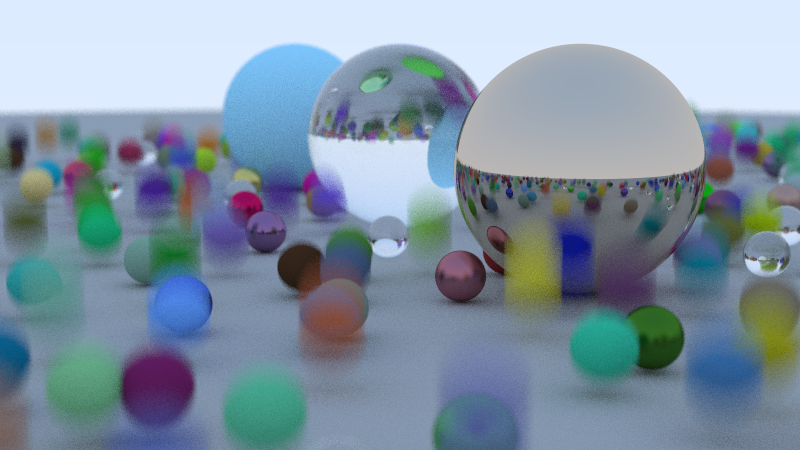
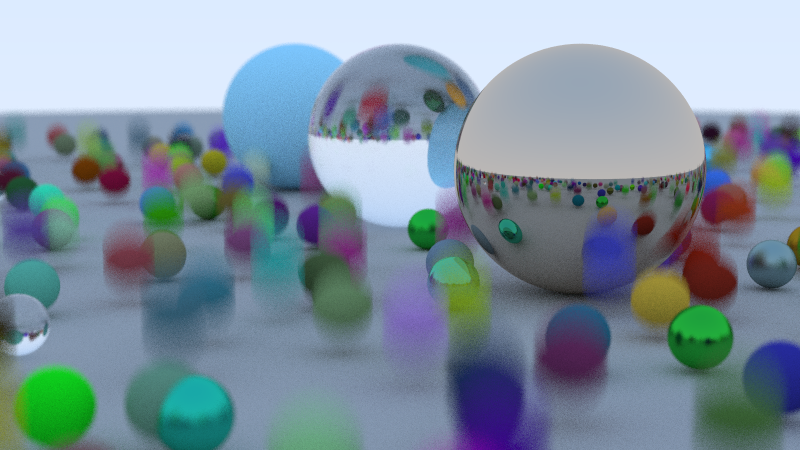
BVH, Arc version

diff --git a/src/bvh.rs b/src/bvh.rs
@@ -1,4 +1,4 @@
-use std::{ops::Range, mem::swap};
+use std::{ops::Range, sync::Arc};
 
 use rand::{thread_rng, Rng};
 
@@ -11,35 +11,35 @@ use crate::{
 /// Bounding Volume Hierarchies
 /// 层次包围盒
 pub struct BvhNode {
-    left: Box<dyn Hittable>,
-    right: Option<Box<dyn Hittable>>,
+    left: Arc<dyn Hittable>,
+    right: Arc<dyn Hittable>,
     bounding_box: AABB,
 }
 
 impl BvhNode {
-    pub fn from_hittable_list(list: HittableList, t_range: &Range<f64>) -> Self{
-        Self::new(list.into(),t_range)
+    pub fn from_hittable_list(mut list: HittableList, t_range: &Range<f64>) -> Self{
+        Self::new(&mut list.get_objects_mut(), t_range)
     }
-    pub fn new(mut src_object: Vec<Box<dyn Hittable>>, t_range: &Range<f64>) -> Self {
+    pub fn new(src_object: &mut [Arc<dyn Hittable>], t_range: &Range<f64>) -> Self {
         let comparator = thread_rng().gen_range(0usize..3);
-        let mut left: Option<Box<dyn Hittable>>;
-        let mut right: Option<Box<dyn Hittable>>;
+        let left: Arc<dyn Hittable>;
+        let right: Arc<dyn Hittable>;
         match src_object.len() {
             1 => {
-                left = src_object.pop();
-                right = None;
+                left = Arc::clone(src_object.first().unwrap());
+                right = Arc::clone(src_object.first().unwrap());
             }
             2 => {
-                let cmp = box_compare(
+                if box_compare(
                     src_object.first().unwrap().as_ref(),
                     src_object.last().unwrap().as_ref(),
-                    comparator);
-                
-                right = src_object.pop();
-                left = src_object.pop();
-                
-                if !cmp{
-                    swap(&mut left, &mut right);
+                    comparator,
+                ) {
+                    left = Arc::clone(src_object.first().unwrap());
+                    right = Arc::clone(src_object.last().unwrap());
+                } else {
+                    left = Arc::clone(src_object.last().unwrap());
+                    right = Arc::clone(src_object.first().unwrap());
                 }
             }
             _ => {
@@ -57,37 +57,21 @@ impl BvhNode {
                         .expect("浮点数比较出错")
                 });
                 let mid = src_object.len() / 2;
-
-                let mut tmp_vec = Vec::new();
-                for _ in 0..mid {
-                    tmp_vec.push(src_object.pop().unwrap());
-                }
-
-                left = Some(Box::new(BvhNode::new(src_object, t_range)));
-                right = Some(Box::new(BvhNode::new(tmp_vec, t_range)));
+                left = Arc::new(BvhNode::new(&mut src_object[..mid], t_range));
+                right = Arc::new(BvhNode::new(&mut src_object[mid..], t_range));
             }
         }
 
-        if let Some(r) = right{
-            if let (Some(box_l), Some(box_r)) =
-                (left.as_ref().unwrap().bounding_box(t_range), r.bounding_box(t_range))
-            {
-                Self {
-                    left: left.unwrap(),
-                    right: Some(r),
-                    bounding_box: surrounding_box(&box_l, &box_r),
-                }
-            } else {
-                panic!("No bounding box in bvh_node constructor.")
-            }
-        }
-        else {
-            let bbox = left.as_ref().unwrap().bounding_box(t_range).unwrap();
+        if let (Some(box_l), Some(box_r)) =
+            (left.bounding_box(t_range), right.bounding_box(t_range))
+        {
             Self {
-                left: left.unwrap(),
-                right: None,
-                bounding_box: bbox,
+                left,
+                right,
+                bounding_box: surrounding_box(&box_l, &box_r),
             }
+        } else {
+            panic!("No bounding box in bvh_node constructor.")
         }
     }
 }
@@ -104,31 +88,20 @@ impl Hittable for BvhNode {
             let hit_left = self.left.hit(ray_in, t_range);
             if let Some(left_rec) = hit_left {
                 // 会与左边相交：判断与右边能否在更近位置相交而遮挡左边
-                if let Some(right) = &self.right{
-                    let mut shrunken_t_range = t_range.clone();
-                    shrunken_t_range.end = left_rec.t;
-                    
-                    let hit_right = right.hit(ray_in, &shrunken_t_range);
-                    if let Some(right_rec) = hit_right {
-                        // 遮挡
-                        Some(right_rec)
-                    } else {
-                        // 不遮挡
-                        Some(left_rec)
-                    }
-                }
-                else {
+                let mut shrunken_t_range = t_range.clone();
+                shrunken_t_range.end = left_rec.t;
+
+                let hit_right = self.right.hit(ray_in, &shrunken_t_range);
+                if let Some(right_rec) = hit_right {
+                    // 遮挡
+                    Some(right_rec)
+                } else {
+                    // 不遮挡
                     Some(left_rec)
                 }
-                
             } else {
                 // 不与左边相交，只考虑右边即可
-                if let Some(right) = &self.right{
-                    right.hit(ray_in, t_range)
-                }
-                else {
-                    None
-                }
+                self.right.hit(ray_in, t_range)
             }
         }
     }

diff --git a/tests/test.rs b/tests/test.rs
@@ -16,6 +16,8 @@ use std::time::SystemTime;
 
 #[cfg(test)]
 mod tests {
+    use std::sync::Arc;
+
     use super::*;
 
     #[test]
@@ -98,7 +100,7 @@ mod tests {
     fn random_scene() -> HittableList {
         let mut world = HittableList::new();
         let ground_material = Box::new(Lambertian::new(Color::new(0.5, 0.5, 0.5)));
-        world.add(Box::new(Sphere::new(
+        world.add(Arc::new(Sphere::new(
             Point3::new(0., -1000., 0.),
             1000.,
             ground_material,
@@ -142,7 +144,7 @@ mod tests {
 
                             let center_2 =
                                 center + Vec3::new(0., thread_rng().gen_range(0.0..0.5), 0.);
-                            world.add(Box::new(MovingSphere::new(
+                            world.add(Arc::new(MovingSphere::new(
                                 (center, center_2),
                                 0.2,
                                 sphere_material,
@@ -156,13 +158,13 @@ mod tests {
                             let fuzz = thread_rng().gen_range(0.0..0.5);
 
                             sphere_material = Box::new(Metal::new(albedo, fuzz));
-                            world.add(Box::new(Sphere::new(center, 0.2, sphere_material)));
+                            world.add(Arc::new(Sphere::new(center, 0.2, sphere_material)));
                         }
                         _ => {
                             // glass
 
                             sphere_material = Box::new(Dielectric::new(1.5));
-                            world.add(Box::new(Sphere::new(center, 0.2, sphere_material)));
+                            world.add(Arc::new(Sphere::new(center, 0.2, sphere_material)));
                         }
                     }
                 }
@@ -170,13 +172,13 @@ mod tests {
         }
 
         let material_1 = Box::new(Dielectric::new(1.5));
-        world.add(Box::new(Sphere::new(c[0], 1.0, material_1)));
+        world.add(Arc::new(Sphere::new(c[0], 1.0, material_1)));
 
         let material_2 = Box::new(Lambertian::new(Color::new(0.3984375, 0.796875, 0.99)));
-        world.add(Box::new(Sphere::new(c[1], 1.0, material_2)));
+        world.add(Arc::new(Sphere::new(c[1], 1.0, material_2)));
 
         let material_3 = Box::new(Metal::new(Color::new(0.7, 0.6, 0.5), 0.0));
-        world.add(Box::new(Sphere::new(c[2], 1.0, material_3)));
+        world.add(Arc::new(Sphere::new(c[2], 1.0, material_3)));
 
         world
     }
@@ -188,27 +190,27 @@ mod tests {
         let material_left = Box::new(Dielectric::new(1.5));
         let material_left_1 = Box::new(Dielectric::new(1.5));
         let material_right = Box::new(Metal::new(Color::new(0.8, 0.6, 0.2), 0.05));
-        world.add(Box::new(Sphere::new(
+        world.add(Arc::new(Sphere::new(
             Point3::new(0.0, -100.5, -1.0),
             100.,
             material_ground,
         )));
-        world.add(Box::new(Sphere::new(
+        world.add(Arc::new(Sphere::new(
             Point3::new(0.0, 0.0, -1.0),
             0.5,
             material_center,
         )));
-        world.add(Box::new(Sphere::new(
+        world.add(Arc::new(Sphere::new(
             Point3::new(-1.0, 0.0, -1.0),
             0.5,
             material_left_1,
         )));
-        world.add(Box::new(Sphere::new(
+        world.add(Arc::new(Sphere::new(
             Point3::new(-1.0, 0.0, -1.0),
             -0.3,
             material_left,
         )));
-        world.add(Box::new(Sphere::new(
+        world.add(Arc::new(Sphere::new(
             Point3::new(1.0, 0.0, -1.0),
             0.5,
             material_right,

diff --git a/tests/test_bvh.rs b/tests/test_bvh.rs
@@ -17,6 +17,8 @@ use std::time::SystemTime;
 
 #[cfg(test)]
 mod test_bvh {
+    use std::sync::Arc;
+
     use super::*;
 
     #[test]
@@ -99,7 +101,7 @@ mod test_bvh {
     fn bvh_random_scene() -> BvhNode {
         let mut world = HittableList::new();
         let ground_material = Box::new(Lambertian::new(Color::new(0.5, 0.5, 0.5)));
-        world.add(Box::new(Sphere::new(
+        world.add(Arc::new(Sphere::new(
             Point3::new(0., -1000., 0.),
             1000.,
             ground_material,
@@ -143,7 +145,7 @@ mod test_bvh {
 
                             let center_2 =
                                 center + Vec3::new(0., thread_rng().gen_range(0.0..0.5), 0.);
-                            world.add(Box::new(MovingSphere::new(
+                            world.add(Arc::new(MovingSphere::new(
                                 (center, center_2),
                                 0.2,
                                 sphere_material,
@@ -157,12 +159,12 @@ mod test_bvh {
                             let fuzz = thread_rng().gen_range(0.0..0.5);
 
                             sphere_material = Box::new(Metal::new(albedo, fuzz));
-                            world.add(Box::new(Sphere::new(center, 0.2, sphere_material)));
+                            world.add(Arc::new(Sphere::new(center, 0.2, sphere_material)));
                         }
                         _ => {
                             // glass
                             sphere_material = Box::new(Dielectric::new(1.5));
-                            world.add(Box::new(Sphere::new(center, 0.2, sphere_material)));
+                            world.add(Arc::new(Sphere::new(center, 0.2, sphere_material)));
                         }
                     }
                 }
@@ -170,13 +172,13 @@ mod test_bvh {
         }
 
         let material_1 = Box::new(Dielectric::new(1.5));
-        world.add(Box::new(Sphere::new(c[0], 1.0, material_1)));
+        world.add(Arc::new(Sphere::new(c[0], 1.0, material_1)));
 
         let material_2 = Box::new(Lambertian::new(Color::new(0.3984375, 0.796875, 0.99)));
-        world.add(Box::new(Sphere::new(c[1], 1.0, material_2)));
+        world.add(Arc::new(Sphere::new(c[1], 1.0, material_2)));
 
         let material_3 = Box::new(Metal::new(Color::new(0.7, 0.6, 0.5), 0.0));
-        world.add(Box::new(Sphere::new(c[2], 1.0, material_3)));
+        world.add(Arc::new(Sphere::new(c[2], 1.0, material_3)));
 
         BvhNode::from_hittable_list(world, &(0.0..1.0))
     }

diff --git a/src/hittable_list.rs b/src/hittable_list.rs
@@ -1,8 +1,11 @@
+use std::sync::Arc;
+
 use crate::{aabb::surrounding_box, hittable::*, ray::Ray};
 
 pub struct HittableList {
-    objects: Vec<Box<dyn Hittable>>,
+    objects: Vec<Arc<dyn Hittable>>,
 }
+
 impl Default for HittableList {
     fn default() -> Self {
         Self::new()
@@ -17,15 +20,19 @@ impl HittableList {
     pub fn clear(&mut self) {
         self.objects.clear();
     }
-    pub fn add(&mut self, obj: Box<dyn Hittable>) {
+    pub fn add(&mut self, obj: Arc<dyn Hittable>) {
         self.objects.push(obj);
     }
-    pub fn get_objects(&self) -> &Vec<Box<dyn Hittable>> {
+    pub fn get_objects(&self) -> &Vec<Arc<dyn Hittable>> {
         &self.objects
     }
+    pub fn get_objects_mut(&mut self) -> &mut Vec<Arc<dyn Hittable>> {
+        &mut self.objects
+    }
 }
-impl Into<Vec<Box<dyn Hittable>>> for HittableList{
-    fn into(self) -> Vec<Box<dyn Hittable>> {
+
+impl Into<Vec<Arc<dyn Hittable>>> for HittableList{
+    fn into(self) -> Vec<Arc<dyn Hittable>> {
         self.objects
     }
 }

diff --git a/src/hittable.rs b/src/hittable.rs
@@ -37,7 +37,7 @@ impl<'a> HitRecord<'a> {
     }
 }
 
-pub trait Hittable: Sync {
+pub trait Hittable: Sync + Send {
     fn hit(&self, ray_in: &Ray, t_range: &Range<f64>) -> Option<HitRecord>;
     fn bounding_box(&self, time: &Range<f64>) -> Option<AABB>;
 }
